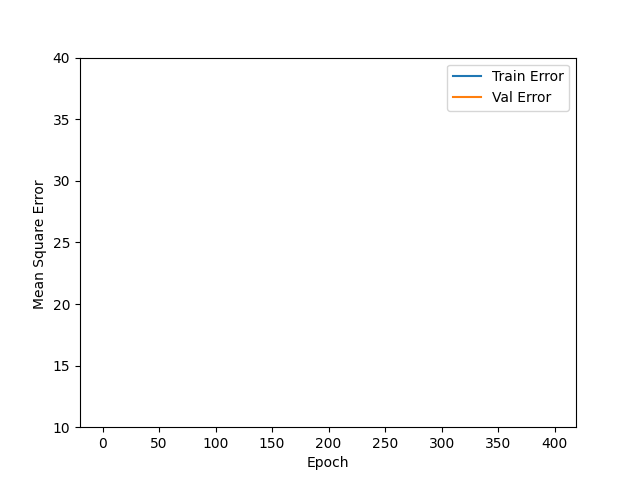
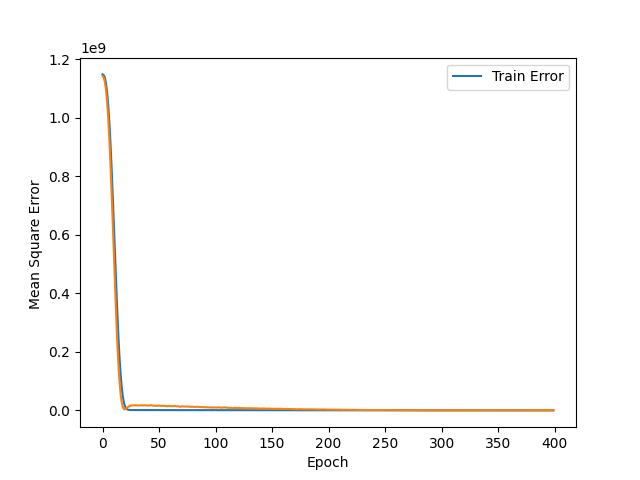
took out limit on plots

diff --git a/feedforward.py b/feedforward.py
@@ -136,7 +136,6 @@ def main():
         plt.ylabel('Mean Abs Error')
         plt.plot(hist['epoch'], hist['mean_absolute_error'],label='Train Error')
         plt.plot(hist['epoch'], hist['val_mean_absolute_error'],label = 'Val Error')
-        plt.ylim([2,5])
         plt.legend()
         plt.savefig(CWD + '/figures/Mean abs Error.png')
 
@@ -144,8 +143,7 @@ def main():
         plt.xlabel('Epoch')
         plt.ylabel('Mean Square Error ')
         plt.plot(hist['epoch'], hist['mean_squared_error'], label='Train Error')
-        plt.plot(hist['epoch'], hist['val_mean_squared_error'],label = 'Val Error')
-        plt.ylim([10,40])
+        plt.plot(hist['epoch'], hist['val_mean_squared_error'])
         plt.legend()
         plt.savefig(CWD + '/figures/Mean Square Error.png')
         plt.show()
